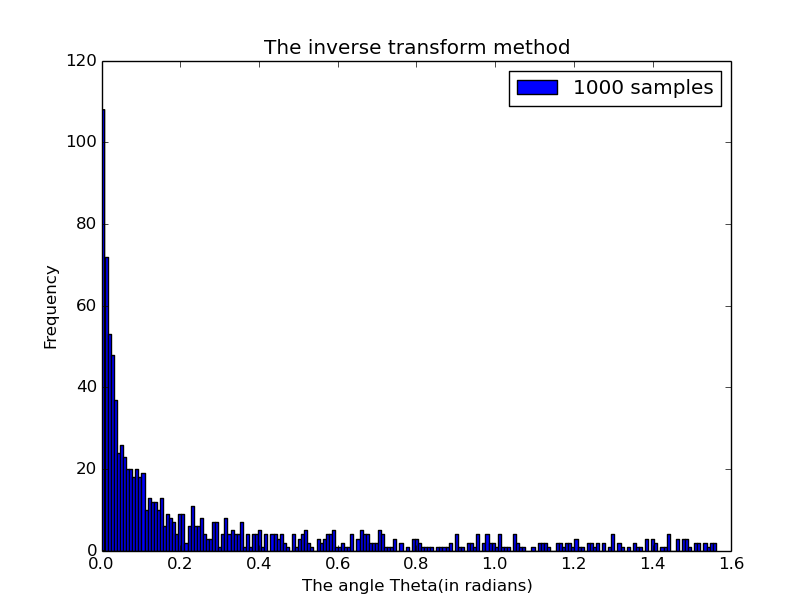
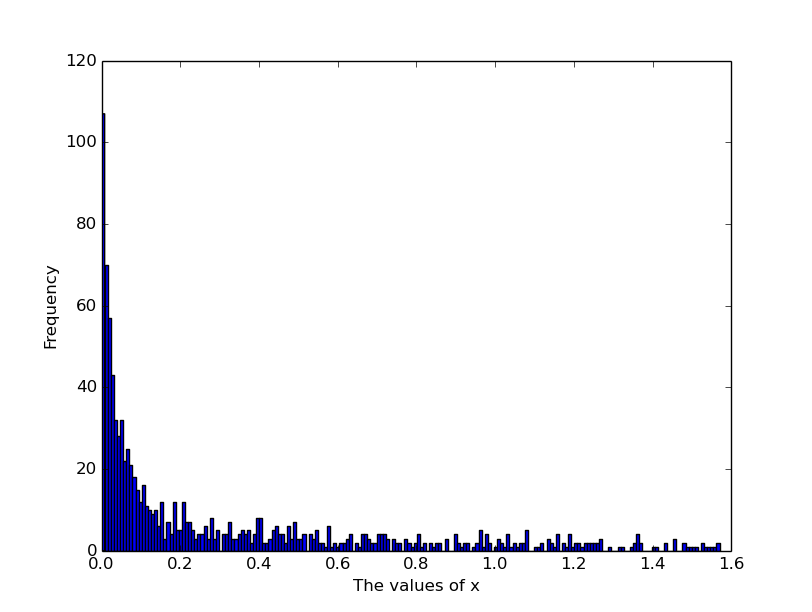
sfsaf

diff --git a/Calculation_of_pi.py b/Calculation_of_pi.py
@@ -22,11 +22,10 @@ for i in range(1000):
 mu = np.mean(l2)
 sigma = np.std(l2)
 
-plt.hist(l2, bins=200, color = 'm', alpha = .5, label = '1000 samples')
+plt.hist(l2, bins=200, color = 'b', alpha = .5)
 plt.title("pi calculation")
 plt.xlabel("The approximate value of pi")
 plt.ylabel("Frequency")
-plt.legend()
 plt.show()
 
 

diff --git a/inverse_distribution.py b/inverse_distribution.py
@@ -15,6 +15,5 @@ plt.hist(l,bins=200,label = '1000 samples',color='b')
 #plt.title('The inverse transform method')
 plt.xlabel('The values of x')
 plt.ylabel('Frequency')
-plt.legend()
 plt.show()
 
